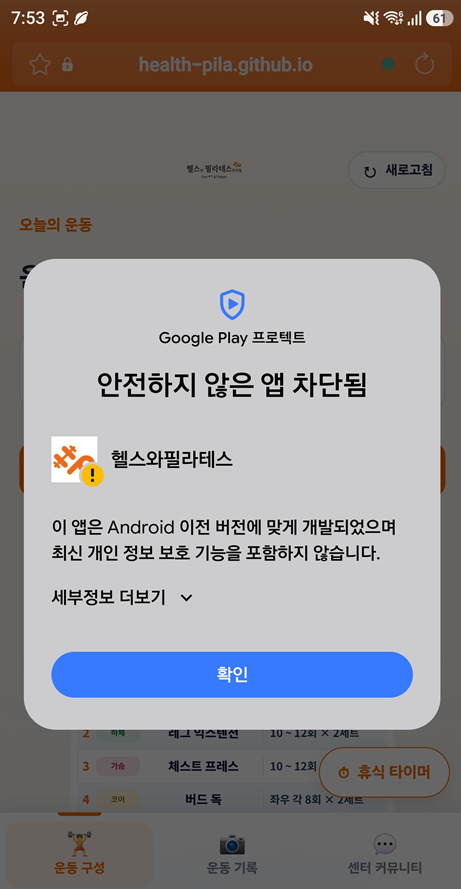
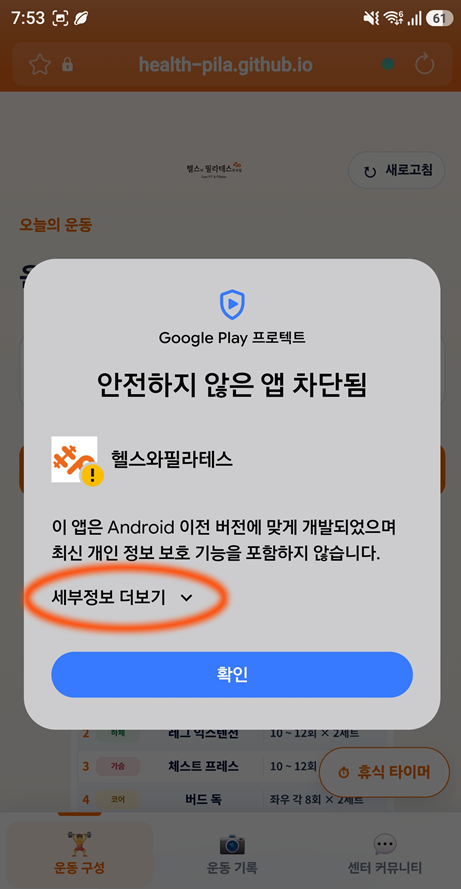
v71: 네이버 설치 안내 정리 및 삼성 사진 교체

Changed region(s): [[0.0304, 0.6074, 0.5163, 0.7289]]

diff --git a/index.html b/index.html
@@ -12,7 +12,7 @@
   <link rel="preconnect" href="https://fonts.gstatic.com" crossorigin>
   <link href="https://fonts.googleapis.com/css2?family=Nanum+Pen+Script&display=swap" rel="stylesheet">
 
-  <link rel="stylesheet" href="style.css?v=70">
+  <link rel="stylesheet" href="style.css?v=71">
   <link rel="manifest" href="manifest.json">
   <meta name="theme-color" content="#ec6a1a">
 
@@ -125,6 +125,10 @@
             <svg viewBox="0 0 24 24" aria-hidden="true" focusable="false"><circle cx="5" cy="12" r="1"/><circle cx="12" cy="12" r="1"/><circle cx="19" cy="12" r="1"/></svg>
           </button>
           <div id="memberMenuPanel" class="member-menu-panel" hidden>
+            <button id="naverShortcutHelp" type="button" aria-haspopup="dialog" aria-controls="naverShortcutDialog" hidden>
+              <svg viewBox="0 0 24 24" aria-hidden="true" focusable="false"><path d="M3 10l9-7 9 7M5 9v12h14V9M9 21v-8h6v8"/></svg>
+              <span>홈 화면 바로가기 안내</span>
+            </button>
             <button id="logoutButton" type="button">
               <svg viewBox="0 0 24 24" aria-hidden="true" focusable="false"><path d="M9 4H4v16h5m6-12 4 4-4 4m-7-4h11"/></svg>
               <span>로그아웃</span>
@@ -809,16 +813,14 @@
         <h3 tabindex="-1"><span>1</span> ‘세부정보 더보기’를 눌러 주세요</h3>
         <p class="samsung-install-caption">글자와 아래쪽 화살표 부분을 누를 수 있어요.</p>
         <figure class="samsung-install-photo samsung-install-photo-first">
-          <img src="images/install-samsung-blocked.png" width="461" height="889" alt="설치 차단 안내 예시. 확인 버튼 바로 위의 ‘세부정보 더보기’가 주황색 테두리로 표시되어 있습니다.">
-          <span class="samsung-install-highlight" aria-hidden="true"></span>
+          <img src="images/install-samsung-blocked.png?v=71" width="461" height="889" alt="설치 차단 안내 예시. 확인 버튼 바로 위의 ‘세부정보 더보기’가 주황색 동그라미로 표시되어 있습니다.">
         </figure>
       </section>
       <section data-samsung-install-step hidden>
         <h3 tabindex="-1"><span>2</span> ‘무시하고 설치하기’를 선택해 주세요</h3>
         <p class="samsung-install-caption">세부정보를 펼치면 이 문구가 나타나요.</p>
         <figure class="samsung-install-photo samsung-install-photo-second">
-          <img src="images/install-samsung-details.png" width="463" height="897" alt="세부정보를 펼친 설치 차단 안내 예시. 확인 버튼 바로 위의 ‘무시하고 설치하기’가 주황색 테두리로 표시되어 있습니다.">
-          <span class="samsung-install-highlight" aria-hidden="true"></span>
+          <img src="images/install-samsung-details.png?v=71" width="463" height="897" alt="세부정보를 펼친 설치 차단 안내 예시. 확인 버튼 바로 위의 ‘무시하고 설치하기’가 주황색 동그라미로 표시되어 있습니다.">
         </figure>
         <p class="samsung-install-app-check">설치할 앱 이름이 <strong>헬스와필라테스</strong>인지 확인해 주세요.</p>
       </section>
@@ -831,12 +833,28 @@
     </footer>
   </dialog>
 
+  <dialog id="naverShortcutDialog" class="naver-shortcut-dialog" aria-labelledby="naverShortcutTitle" aria-describedby="naverShortcutDescription">
+    <div class="naver-shortcut-heading">
+      <h2 id="naverShortcutTitle">홈 화면 바로가기 안내</h2>
+      <button id="closeNaverShortcutGuide" type="button" aria-label="바로가기 안내 닫기">닫기</button>
+    </div>
+    <p id="naverShortcutDescription">네이버에서는 휴대폰 홈 화면에 센터 페이지의 바로가기를 추가할 수 있어요.</p>
+    <ol>
+      <li>이 안내를 닫고, <strong>네이버 앱의 브라우저 메뉴</strong>를 열어 주세요.</li>
+      <li><strong>‘바로가기 추가’</strong>를 선택하고 홈 화면에 추가해 주세요.</li>
+      <li>홈 화면에 생긴 아이콘을 누르면 센터 페이지가 열려요.</li>
+    </ol>
+    <p class="naver-shortcut-note">이미 홈 화면에 아이콘이 있다면 다시 추가하지 않아도 돼요.</p>
+    <p class="naver-shortcut-detail">바로가기는 웹페이지 형식으로 열려요. 설치 없이도 센터 서비스를 이용할 수 있어요.</p>
+    <button id="confirmNaverShortcutGuide" type="button">확인했어요</button>
+  </dialog>
+
   <script src="https://cdn.jsdelivr.net/npm/@supabase/supabase-js@2"></script>
 
-  <script src="exercise-data.js?v=70"></script>
-  <script src="routine-components.js?v=70"></script>
-  <script src="one-day-pt.js?v=70"></script>
-  <script src="script.js?v=70"></script>
+  <script src="exercise-data.js?v=71"></script>
+  <script src="routine-components.js?v=71"></script>
+  <script src="one-day-pt.js?v=71"></script>
+  <script src="script.js?v=71"></script>
 </body>
 
 

diff --git a/script.js b/script.js
@@ -38,12 +38,16 @@ const samsungInstallSteps = document.querySelectorAll("[data-samsung-install-ste
 const samsungInstallProgress = document.getElementById("samsungInstallProgress");
 const samsungInstallPrevious = document.getElementById("samsungInstallPrevious");
 const samsungInstallContinue = document.getElementById("samsungInstallContinue");
+const naverShortcutHelp = document.getElementById("naverShortcutHelp");
+const naverShortcutDialog = document.getElementById("naverShortcutDialog");
 
 let deferredInstallPrompt = null;
 let installPromptInFlight = false;
 let samsungInstallStep = 0;
 
 const isIos = /iphone|ipad|ipod/i.test(navigator.userAgent);
+const isNaverApp =
+  /Android/i.test(navigator.userAgent) && /\bNAVER(?:\(|APP\b)/i.test(navigator.userAgent);
 const isSamsungInternet =
   /Android/i.test(navigator.userAgent) && /SamsungBrowser\//i.test(navigator.userAgent);
 
@@ -51,8 +55,11 @@ const isStandalone =
   window.matchMedia("(display-mode: standalone)").matches ||
   window.navigator.standalone === true;
 
-// 이미 설치된 상태가 아니라면 버튼 표시
-if (!isStandalone) {
+// 네이버 바로가기는 웹으로 열리므로 설치 상태를 추측하지 않습니다.
+// 반복되는 설치 권유 대신 상단 메뉴에서 바로가기 안내를 확인하게 합니다.
+installButton.hidden = isStandalone || isNaverApp;
+if (naverShortcutHelp) naverShortcutHelp.hidden = !isNaverApp || isStandalone;
+if (!isStandalone && !isNaverApp) {
   installButton.hidden = false;
 
   if (isIos) {
@@ -63,9 +70,45 @@ if (!isStandalone) {
 // 안드로이드·PC에서 설치 준비가 완료되었을 때
 window.addEventListener("beforeinstallprompt", (event) => {
   event.preventDefault();
-  if (isStandalone) return;
+  if (isStandalone || isNaverApp) return;
   deferredInstallPrompt = event;
   installButton.hidden = false;
+});
+
+function openNaverShortcutGuide() {
+  if (!naverShortcutDialog) {
+    alert("네이버 앱의 브라우저 메뉴에서 ‘바로가기 추가’를 선택해 주세요. 이미 홈 화면에 아이콘이 있다면 다시 추가하지 않아도 돼요.");
+    return;
+  }
+  const panel = document.getElementById("memberMenuPanel");
+  const toggle = document.getElementById("memberMenuToggle");
+  if (panel) panel.hidden = true;
+  if (toggle) {
+    toggle.setAttribute("aria-expanded", "false");
+    toggle.setAttribute("aria-label", "메뉴 열기");
+  }
+  if (!naverShortcutDialog.open) naverShortcutDialog.showModal();
+  document.body.classList.add("naver-shortcut-guide-open");
+}
+
+naverShortcutHelp?.addEventListener("click", openNaverShortcutGuide);
+document.getElementById("closeNaverShortcutGuide")?.addEventListener("click", () => naverShortcutDialog?.close());
+document.getElementById("confirmNaverShortcutGuide")?.addEventListener("click", () => naverShortcutDialog?.close());
+naverShortcutDialog?.addEventListener("close", () => {
+  document.body.classList.remove("naver-shortcut-guide-open");
+  document.getElementById("memberMenuToggle")?.focus({ preventScroll: true });
+});
+naverShortcutDialog?.addEventListener("keydown", (event) => {
+  if (event.key !== "Tab") return;
+  const first = document.getElementById("closeNaverShortcutGuide");
+  const last = document.getElementById("confirmNaverShortcutGuide");
+  if (event.shiftKey && document.activeElement === first) {
+    event.preventDefault();
+    last.focus();
+  } else if (!event.shiftKey && document.activeElement === last) {
+    event.preventDefault();
+    first.focus();
+  }
 });
 
 function showSamsungInstallStep(step, moveFocus = true) {
@@ -89,6 +132,10 @@ function closeSamsungInstallGuide() {
 // 마지막 확인 버튼의 클릭 안에서 곧바로 prompt()를 호출해야 설치 권한이 유지됩니다.
 async function startAppInstall() {
   if (installPromptInFlight) return;
+  if (isNaverApp) {
+    openNaverShortcutGuide();
+    return;
+  }
   if (deferredInstallPrompt) {
     const promptEvent = deferredInstallPrompt;
     deferredInstallPrompt = null;

diff --git a/style.css b/style.css
@@ -4986,9 +4986,6 @@ body.samsung-install-guide-open { overflow: hidden; }
 .samsung-install-photo img { position: absolute; display: block; max-width: none; height: auto; }
 .samsung-install-photo-first img { width: 110.5516%; left: -5.7554%; top: -54.9894%; }
 .samsung-install-photo-second img { width: 111.0312%; left: -6.4748%; top: -36.3478%; }
-.samsung-install-highlight { position: absolute; display: block; border: 3px solid #e45800; border-radius: 8px; box-shadow: 0 0 0 2px #fff; pointer-events: none; }
-.samsung-install-photo-first .samsung-install-highlight { left: 4.8%; top: 68.1%; width: 39%; height: 8.5%; }
-.samsung-install-photo-second .samsung-install-highlight { left: 4.8%; top: 74%; width: 37%; height: 6.9%; }
 .samsung-install-app-check { margin: 14px 0 0; padding: 10px 12px; border-radius: 10px; background: #fff4ea; color: #793400; font-size: 13px; line-height: 1.6; word-break: keep-all; }
 .samsung-install-footnote { margin: 14px 0 0; font-size: 12px; line-height: 1.6; color: #64748b; word-break: keep-all; }
 .samsung-install-actions { display: flex; flex-wrap: wrap; gap: 8px; flex-shrink: 0; padding: 12px 20px; padding-bottom: max(12px, env(safe-area-inset-bottom)); border-top: 1px solid #e7eaf0; background: #fff; }
@@ -4998,3 +4995,23 @@ body.samsung-install-guide-open { overflow: hidden; }
 @media (max-height: 700px) {
   .samsung-install-scroll-hint { display: block; }
 }
+
+/* v71: 네이버에서는 설치 권유 없이 메뉴에서 바로가기 방법만 안내 */
+#appScreen #naverShortcutHelp { align-items: center; gap: 9px; width: 100%; min-height: 44px; padding: 8px 12px; border: 0; border-radius: 8px; background: #fff; color: var(--brand-navy); font: inherit; font-size: 13px; line-height: 1.5; text-align: left; }
+#appScreen #naverShortcutHelp:not([hidden]) { display: flex; }
+#appScreen #naverShortcutHelp svg { flex: 0 0 19px; width: 19px; height: 19px; fill: none; stroke: currentColor; stroke-width: 1.7; }
+#appScreen #naverShortcutHelp:hover { background: #eef1f5; }
+body.naver-shortcut-guide-open { overflow: hidden; }
+.naver-shortcut-dialog { width: min(420px, calc(100vw - 24px)); max-height: calc(100vh - 24px); max-height: calc(100dvh - 24px); margin: auto; padding: 20px; border: 0; border-radius: 22px; background: #fff; color: #18243b; font-family: inherit; overflow-y: auto; overscroll-behavior: contain; }
+.naver-shortcut-dialog::backdrop { background: #18243bb3; }
+.naver-shortcut-heading { display: flex; align-items: center; justify-content: space-between; gap: 8px; }
+.naver-shortcut-heading h2 { margin: 0; font-size: 18px; line-height: 1.5; }
+.naver-shortcut-dialog button { width: auto; min-height: 44px; margin: 0; padding: 10px; border: 0; border-radius: 10px; background: #fff; color: #334155; font: inherit; font-size: 14px; cursor: pointer; }
+#closeNaverShortcutGuide { flex-shrink: 0; }
+.naver-shortcut-dialog p, .naver-shortcut-dialog li { font-size: 14px; line-height: 1.8; word-break: keep-all; overflow-wrap: anywhere; }
+.naver-shortcut-dialog ol { margin: 20px 0; padding-left: 22px; }
+.naver-shortcut-dialog li + li { margin-top: 12px; }
+.naver-shortcut-note { padding: 12px; border-radius: 12px; background: #fff4ea; color: #793400; }
+.naver-shortcut-dialog .naver-shortcut-detail { color: #64748b; font-size: 12px; }
+#confirmNaverShortcutGuide { width: 100%; margin-top: 8px; min-height: 48px; background: #b44700; color: #fff; font-weight: 700; }
+#appScreen #naverShortcutHelp:focus-visible, .naver-shortcut-dialog button:focus-visible { outline: 3px solid #e87724; outline-offset: 2px; }

diff --git a/service-worker.js b/service-worker.js
@@ -1,5 +1,5 @@
 // 배포할 때 index.html의 ?v= 숫자와 함께 변경합니다.
-const APP_VERSION = "70";
+const APP_VERSION = "71";
 const APP_SCOPE = new URL(self.registration.scope);
 const CACHE_PREFIX = `workout-check:${APP_SCOPE.pathname}:`;
 const CACHE_NAME = `${CACHE_PREFIX}v${APP_VERSION}`;
@@ -19,8 +19,8 @@ const APP_FILES = [
   "./images/center-logo.png",
   "./images/icon-192.png",
   "./images/icon-512.png",
-  "./images/install-samsung-blocked.png",
-  "./images/install-samsung-details.png"
+  `./images/install-samsung-blocked.png?v=${APP_VERSION}`,
+  `./images/install-samsung-details.png?v=${APP_VERSION}`
 ];
 
 function belongsToThisApp(urlValue) {

diff --git a/reset-password.html b/reset-password.html
@@ -7,7 +7,7 @@
   <meta name="robots" content="noindex, nofollow">
   <meta name="theme-color" content="#ec6a1a">
   <title>비밀번호 재설정 · 헬스와 필라테스</title>
-  <link rel="stylesheet" href="style.css?v=70">
+  <link rel="stylesheet" href="style.css?v=71">
   <link rel="icon" href="images/icon-192.png">
 </head>
 <body>
@@ -58,6 +58,6 @@
     </div>
   </main>
   <script src="https://cdn.jsdelivr.net/npm/@supabase/supabase-js@2"></script>
-  <script src="password-reset.js?v=70"></script>
+  <script src="password-reset.js?v=71"></script>
 </body>
 </html>
